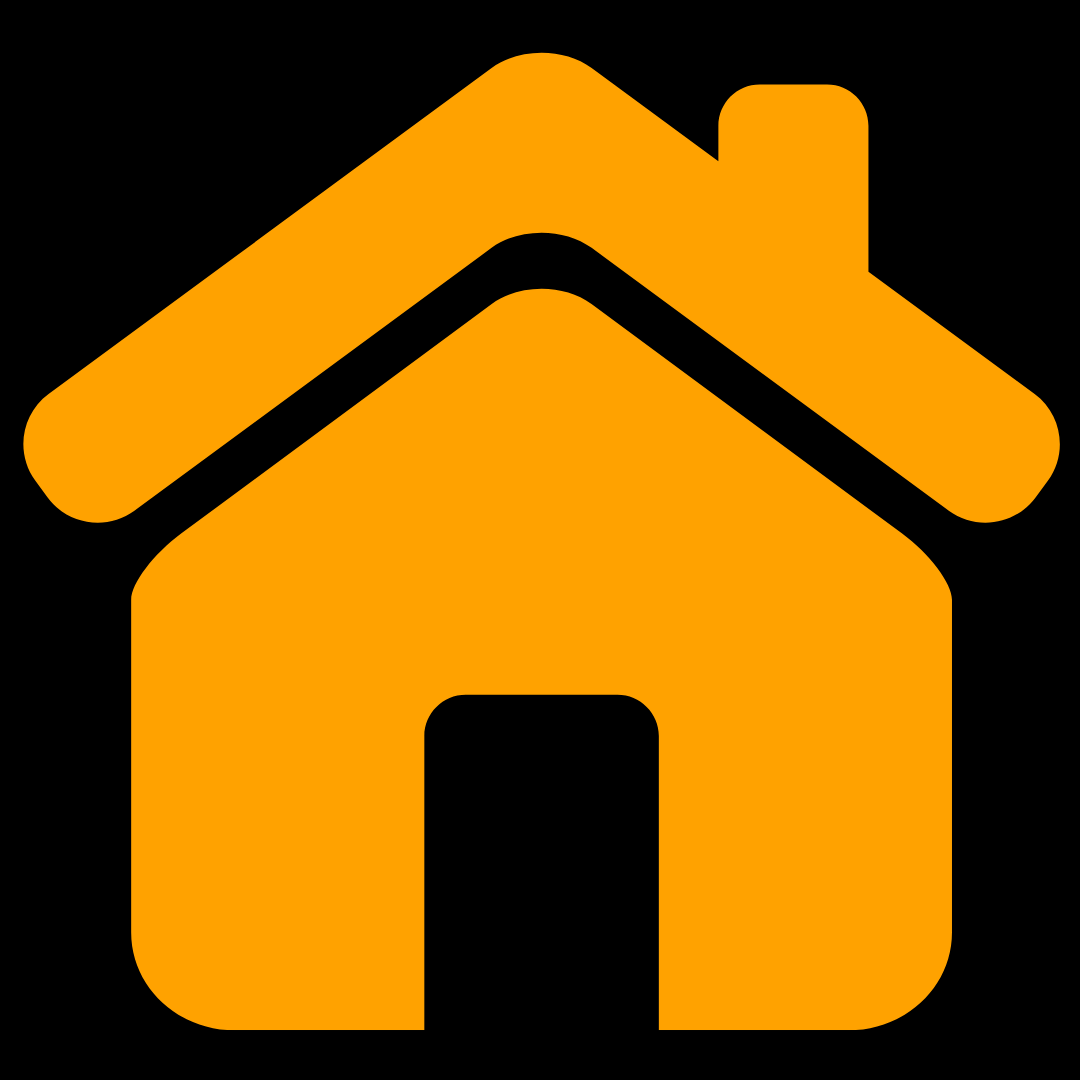
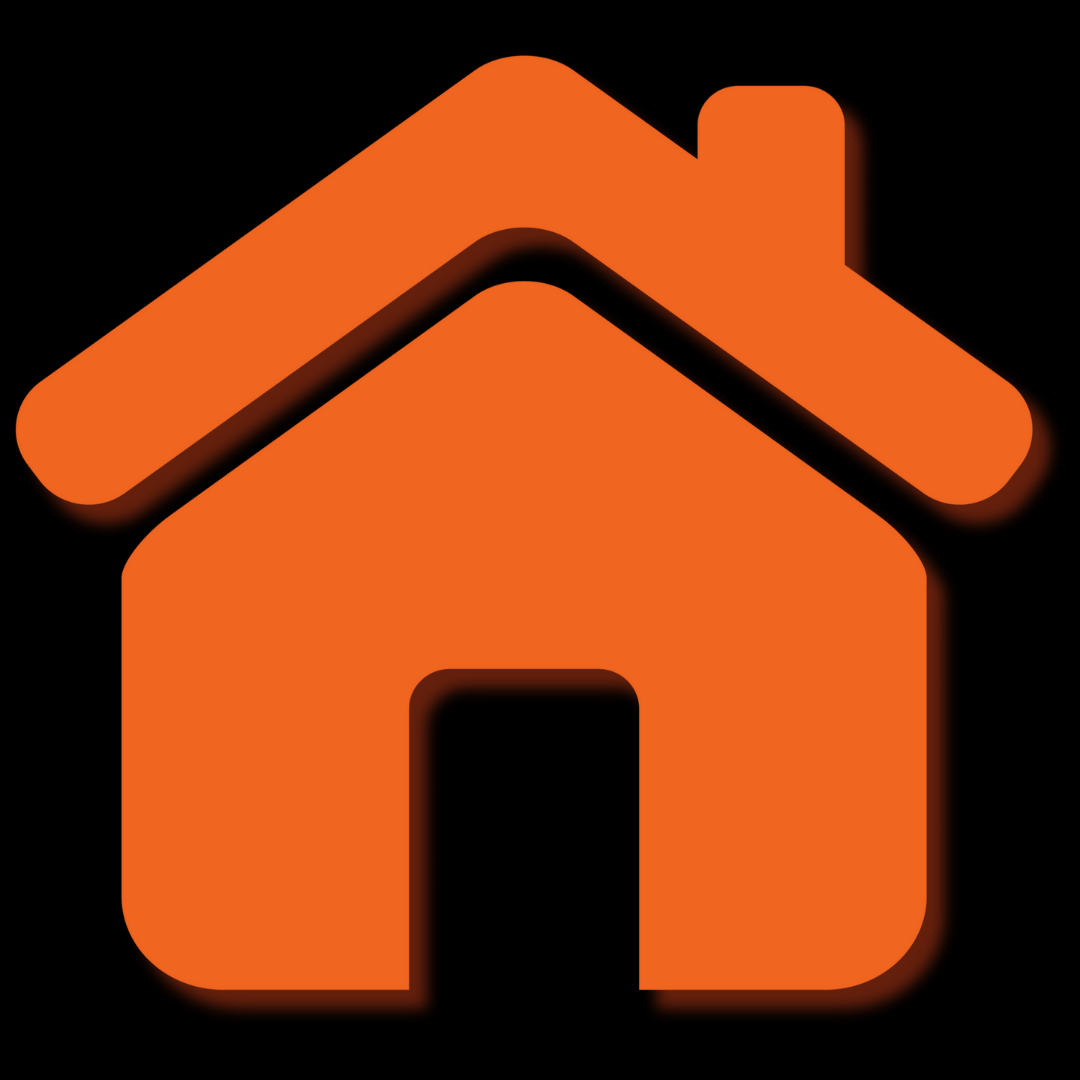
Fix: Components Navbar with a Tooltip

diff --git a/app/src/main/resources/styles/dark-theme.css b/app/src/main/resources/styles/dark-theme.css
@@ -13,7 +13,7 @@
 
 /* ==> Style for LoginScene and RegisterScene <== */
 .text-link {
-    -fx-text-fill: #ffa200;
+    -fx-text-fill: #F0651F;
 }
 
 .text-status {
@@ -36,7 +36,7 @@
 }
 
 .loginbutton:hover {
-    -fx-background-color: #ffa200;
+    -fx-background-color: #F0651F;
     -fx-text-fill: rgb(0, 0, 0);
 }
 
@@ -53,7 +53,7 @@
 }
 
 .registerbutton:hover {
-    -fx-background-color: #ffa200;
+    -fx-background-color: #F0651F;
     -fx-text-fill: rgb(0, 0, 0);
 }
 
@@ -83,7 +83,7 @@
 }
 
 .profileField:hover {
-    -fx-border-color: #ffa200;
+    -fx-border-color: #F0651F;
 }
 
 .profileUpdateButton {
@@ -96,7 +96,7 @@
 }
 
 .profileUpdateButton:hover {
-    -fx-background-color: #ffa200;
+    -fx-background-color: #F0651F;
     -fx-text-fill: rgb(0, 0, 0);
 }
 
@@ -109,7 +109,7 @@
 }
 
 .card:hover {
-    -fx-border-color: #ffa200;
+    -fx-border-color: #F0651F;
 }
 
 .card-detail {

diff --git a/app/src/main/java/travelreview/project/Scenes/Components/Navbar.java b/app/src/main/java/travelreview/project/Scenes/Components/Navbar.java
@@ -3,12 +3,14 @@ package travelreview.project.Scenes.Components;
 import javafx.geometry.Insets;
 import javafx.geometry.Pos;
 import javafx.scene.control.Button;
+import javafx.scene.control.Tooltip;
 import javafx.scene.image.Image;
 import javafx.scene.image.ImageView;
 import javafx.scene.layout.Priority;
 import javafx.scene.layout.Region;
 import javafx.scene.layout.VBox;
 import javafx.stage.Stage;
+import javafx.util.Duration;
 import travelreview.project.Scenes.LoginScene;
 import travelreview.project.Scenes.User_scene.HomeScene;
 import travelreview.project.Scenes.User_scene.ProfileScene;
@@ -76,10 +78,16 @@ public class Navbar {
         buttonHome.setOnMouseEntered(e -> {
             Image homeIconHover = new Image(getClass().getResourceAsStream("/images/navbar-icon/HomeIconHover.png"));
             homeIconView.setImage(homeIconHover);
+            Tooltip tooltip = new Tooltip("Home");
+            tooltip.setStyle("-fx-font-size: 13");
+            tooltip.setShowDelay(Duration.millis(100)); // Set the show delay to 100 milliseconds
+            tooltip.setShowDuration(Duration.INDEFINITE);
+            buttonHome.setTooltip(tooltip);
         });
 
         buttonHome.setOnMouseExited(e -> {
             homeIconView.setImage(homeIcon);
+            buttonHome.setTooltip(null);
         });
 
         buttonHome.setOnAction(e -> {
@@ -91,10 +99,16 @@ public class Navbar {
         buttonListTempat.setOnMouseEntered(e -> {
             Image listTempatIconHover = new Image(getClass().getResourceAsStream("/images/navbar-icon/ListIconHover.png"));
             listTempatIconView.setImage(listTempatIconHover);
+            Tooltip tooltip = new Tooltip("List Tempat Wisata");
+            tooltip.setStyle("-fx-font-size: 13");
+            tooltip.setShowDelay(Duration.millis(100)); // Set the show delay to 100 milliseconds
+            tooltip.setShowDuration(Duration.INDEFINITE);
+            buttonListTempat.setTooltip(tooltip);
         });
 
         buttonListTempat.setOnMouseExited(e -> {
             listTempatIconView.setImage(listTempatIcon);
+            buttonListTempat.setTooltip(null);
         });
 
         buttonListTempat.setOnAction(e -> {
@@ -106,10 +120,16 @@ public class Navbar {
         buttonProfile.setOnMouseEntered(e -> {
             Image profileIconHover = new Image(getClass().getResourceAsStream("/images/navbar-icon/ProfileIconHover.png"));
             profileIconView.setImage(profileIconHover);
+            Tooltip tooltip = new Tooltip("Profile");
+            tooltip.setStyle("-fx-font-size: 13");
+            tooltip.setShowDelay(Duration.millis(100)); // Set the show delay to 100 milliseconds
+            tooltip.setShowDuration(Duration.INDEFINITE);
+            buttonProfile.setTooltip(tooltip);
         });
 
         buttonProfile.setOnMouseExited(e -> {
             profileIconView.setImage(profileIcon);
+            buttonProfile.setTooltip(null);
         });
 
         buttonProfile.setOnAction(e -> {
@@ -121,16 +141,24 @@ public class Navbar {
         buttonLogout.setOnMouseEntered(e -> {
             Image logoutIconHover = new Image(getClass().getResourceAsStream("/images/navbar-icon/LogoutIconHover.png"));
             logoutIconView.setImage(logoutIconHover);
+            Tooltip tooltip = new Tooltip("Logout");
+            tooltip.setStyle("-fx-font-size: 13");
+            tooltip.setShowDelay(Duration.millis(100)); // Set the show delay to 100 milliseconds
+            tooltip.setShowDuration(Duration.INDEFINITE);
+            buttonLogout.setTooltip(tooltip);
         });
 
         buttonLogout.setOnMouseExited(e -> {
             logoutIconView.setImage(logoutIcon);
+            buttonLogout.setText("");
         });
 
         buttonLogout.setOnAction(e -> {
             LoginScene loginScene = new LoginScene(stage);
             loginScene.show();
         });
+        /* ==> BUTTON ACTION END <== */
+
         return navbar;
     }
 

diff --git a/app/src/main/java/travelreview/project/Scenes/User_scene/TempatListScene.java b/app/src/main/java/travelreview/project/Scenes/User_scene/TempatListScene.java
@@ -46,6 +46,7 @@ public class TempatListScene extends AScene{
         for (TempatWisata tempat : tempatWisataData) {
             ImageView imageViewTempat = new ImageView();
             imageViewTempat.setFitWidth(250);
+            imageViewTempat.setFitHeight(200);
             imageViewTempat.setPreserveRatio(true);
 
             if (tempat.getImagePath() != null && !tempat.getImagePath().isEmpty()) {
@@ -70,7 +71,7 @@ public class TempatListScene extends AScene{
 
             HBox hBoxTempat = new HBox(vBoxImageTempat, vBoxNamaTempat);
             hBoxTempat.setPrefWidth(750);
-            hBoxTempat.setPrefHeight(100);
+            hBoxTempat.setMaxHeight(100);
             hBoxTempat.getStyleClass().add("card");
 
             hBoxTempat.setOnMouseClicked(e -> {
@@ -92,6 +93,7 @@ public class TempatListScene extends AScene{
         ScrollPane scrollPane = new ScrollPane(vBoxMainContent);
         scrollPane.setFitToWidth(true);
         scrollPane.getStyleClass().add("scene");
+        scrollPane.setVbarPolicy(ScrollPane.ScrollBarPolicy.NEVER);
 
         Navbar navbar = new Navbar();
         HBox hBoxContent = new HBox(navbar.getUserNavbar(stage, id), scrollPane);

diff --git a/app/src/main/java/travelreview/project/Scenes/User_scene/HomeScene.java b/app/src/main/java/travelreview/project/Scenes/User_scene/HomeScene.java
@@ -98,6 +98,8 @@ public class HomeScene extends AScene{
             VBox vBoxNamaTempat = new VBox(labelNamaTempat, labelLokasi, labelRating);
             vBoxNamaTempat.setPadding(new Insets(10, 15, 15, 15));
             vBoxNamaTempat.setSpacing(5);
+            vBoxNamaTempat.setPrefWidth(250);
+            vBoxNamaTempat.setPrefHeight(100);
             vBoxNamaTempat.getStyleClass().add("card-detail");
 
             VBox vBoxTempat = new VBox(vBoxImageTempat, vBoxNamaTempat);
